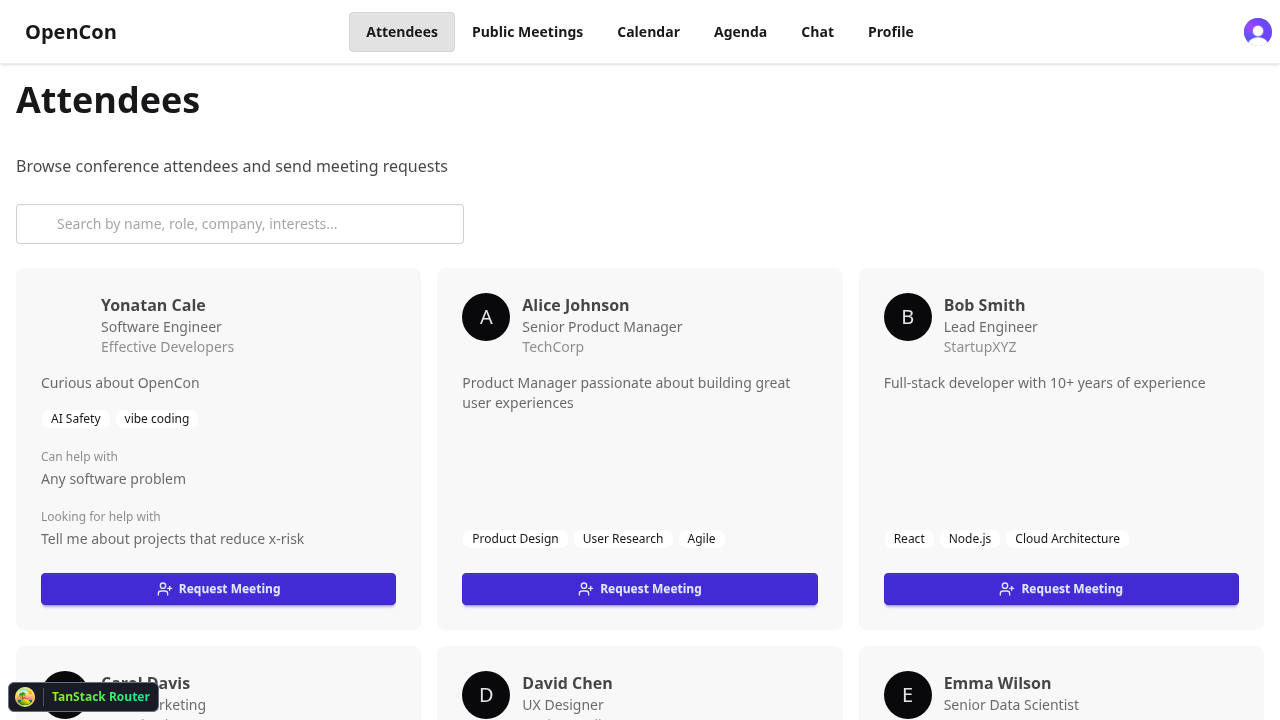
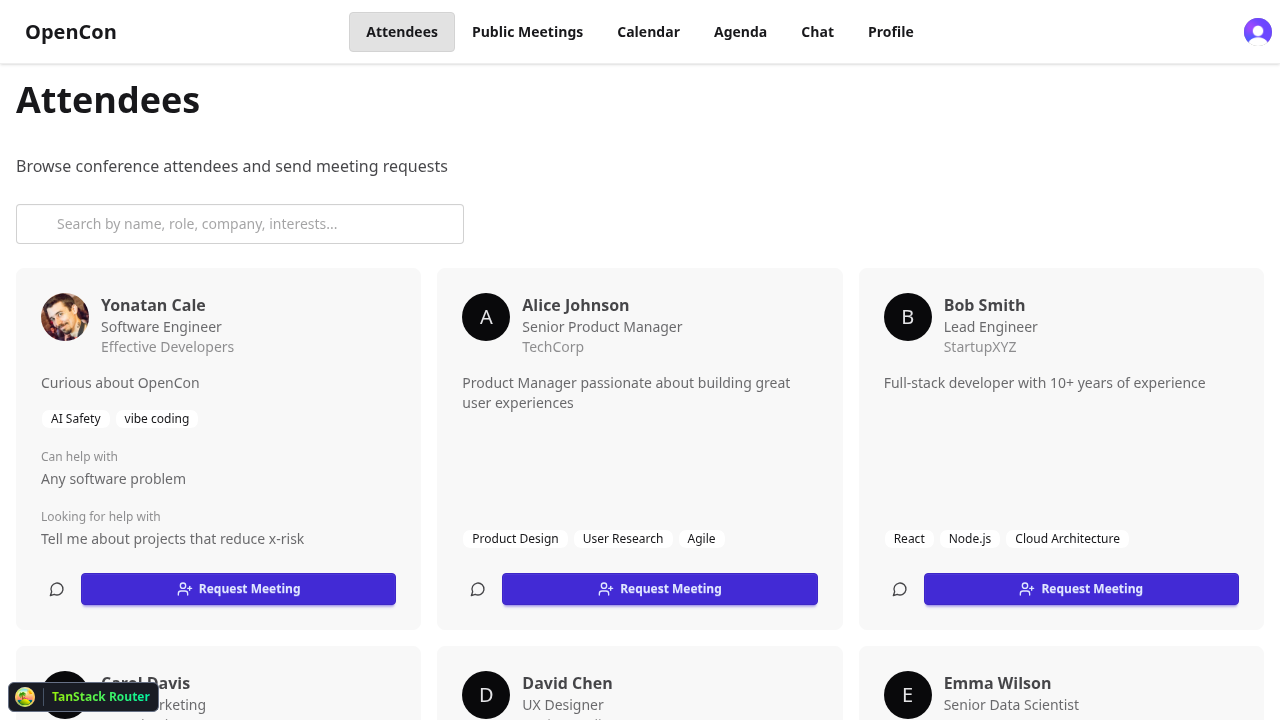
+test chat

diff --git a/e2e/app.spec.ts b/e2e/app.spec.ts
@@ -237,4 +237,53 @@ test.describe("E2E User Flow", () => {
 
     await signOut(page);
   });
+
+  test("chat feature", async ({ page }) => {
+    await page.goto("/");
+    await signIn(page);
+
+    // Go to attendees and find someone to chat with
+    await page.goto("/attendees", { waitUntil: "networkidle" });
+    await expect(page.getByText("Alice Johnson")).toBeVisible();
+
+    // Click the message icon on Alice's card
+    await page.getByText("Alice Johnson").locator("../../../..").getByRole("link", { name: "Message" }).click();
+
+    // Should navigate to user profile with chat embed
+    await expect(page.getByRole("heading", { name: "Alice Johnson" })).toBeVisible();
+    await expect(page.getByPlaceholder("Type a message...")).toBeVisible({ timeout: 5000 });
+
+    // Send a few messages
+    const chatInput = page.getByPlaceholder("Type a message...");
+    const sendButton = page.getByRole("button", { name: "Send message" });
+
+    await chatInput.fill("Hi Alice! Great to meet you at the conference.");
+    await sendButton.click();
+    await expect(page.getByText("Hi Alice! Great to meet you at the conference.")).toBeVisible();
+
+    await chatInput.fill("I saw you're interested in AI Safety - would love to chat about that!");
+    await sendButton.click();
+    await expect(page.getByText("I saw you're interested in AI Safety")).toBeVisible();
+
+    await chatInput.fill("Let me know if you have time for a coffee break tomorrow.");
+    await sendButton.click();
+    await expect(page.getByText("Let me know if you have time for a coffee break tomorrow.")).toBeVisible();
+
+    await screenshot(page, "chat-embed-user-profile");
+
+    // Navigate to chats page
+    await page.goto("/chats", { waitUntil: "networkidle" });
+    // Use link role and filter for visible (there are two ChatRoomLists - mobile hidden, desktop visible)
+    const aliceChatLink = page.getByRole("link", { name: /Alice Johnson/ }).locator("visible=true").first();
+    await expect(aliceChatLink).toBeVisible();
+    await screenshot(page, "chats-list");
+
+    // Click into the chat to see split view (on desktop) or full chat (on mobile)
+    await aliceChatLink.click();
+    // Filter for visible element (hidden mobile and visible desktop versions exist)
+    await expect(page.getByText("Hi Alice! Great to meet you at the conference.").locator("visible=true").first()).toBeVisible();
+    await screenshot(page, "chat-conversation");
+
+    await signOut(page);
+  });
 });

diff --git a/convex/testingFunctions.ts b/convex/testingFunctions.ts
@@ -83,6 +83,24 @@ export const clearAllData = testingMutation({
       await ctx.db.delete(m._id);
     }
 
+    // Delete chat messages
+    const chatMessages = await ctx.db.query("chatRoomMessages").collect();
+    for (const m of chatMessages) {
+      await ctx.db.delete(m._id);
+    }
+
+    // Delete chat room users
+    const chatRoomUsers = await ctx.db.query("chatRoomUsers").collect();
+    for (const u of chatRoomUsers) {
+      await ctx.db.delete(u._id);
+    }
+
+    // Delete chat rooms
+    const chatRooms = await ctx.db.query("chatRooms").collect();
+    for (const r of chatRooms) {
+      await ctx.db.delete(r._id);
+    }
+
     // Delete users
     const users = await ctx.db.query("users").collect();
     for (const u of users) {

diff --git a/src/components/chat/ChatRoom.tsx b/src/components/chat/ChatRoom.tsx
@@ -170,6 +170,7 @@ export function ChatRoom({ chatRoomId, currentUserId, maxHeight = "h-96" }: Chat
           onClick={() => void handleSend()}
           disabled={!newMessage.trim()}
           className="btn btn-primary btn-sm btn-square"
+          aria-label="Send message"
         >
           <Send className="w-4 h-4" />
         </button>
